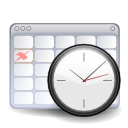
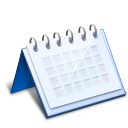
Date img added

diff --git a/_sass/_layout.scss b/_sass/_layout.scss
@@ -17,7 +17,7 @@ R: 149  G: 255  B: 206
     }
 
 .site-title {
-    font-family: "ironstrikeregular";
+    font-family:$font-stack;
     float: left;
 }
 
@@ -32,7 +32,7 @@ R: 149  G: 255  B: 206
 .site-nav {
     float: right;
     display: inline;
-
+    z-index: 999;
     .menu-icon {
         display: none;
     }
@@ -55,6 +55,7 @@ R: 149  G: 255  B: 206
         border: 1px solid $grey-color-light;
         border-radius: 5px;
         text-align: right;
+        z-index: 999;
 
         .menu-icon {
             display: block;
@@ -172,7 +173,7 @@ R: 149  G: 255  B: 206
 .page-content {
     //padding: $spacing-unit 0;
     padding: 0 10px 10px 10px;
-    font-family: "ironstrikeregular";
+    font-family: $font-stack;
 
 }
 .page-heading {
@@ -193,7 +194,7 @@ R: 149  G: 255  B: 206
 .post-meta {
     font-size: $small-font-size;
     color: $grey-color;
-    border-top: 1px dashed #000;
+
 }
 
 .post-link {
@@ -201,7 +202,10 @@ R: 149  G: 255  B: 206
     font-size: 24px;
 }
 
-
+.date-image {
+    width: 25px;
+    padding-right: 3px;
+}
 
 /**
  * Posts
@@ -216,7 +220,7 @@ R: 149  G: 255  B: 206
     letter-spacing: 1.2px;
     line-height: 1.4;
     font-weight: 700;
-    font-family: "ironstrikeregular";
+    font-family: $font-stack;
     -webkit-transition: all .5s ease-in;
     -moz-transition: all .5s ease-in;
     -ms-transition: all .5s ease-in;

diff --git a/_includes/head.html b/_includes/head.html
@@ -9,7 +9,10 @@
     <link rel="stylesheet" href="{{ "/css/main.css" | prepend: site.baseurl }}">
     <link rel="canonical" href="{{ page.url | replace:'index.html','' | prepend: site.baseurl | prepend: site.url }}">
     <link href='https://fonts.googleapis.com/css?family=Open+Sans+Condensed:300,300italic,700' rel='stylesheet' type='text/css'>
-    <meta property="og:title" content="Robert Höögs uni website" />
-    <meta property="og:type" content="text, exams, reports, results" />
-    <meta property="og:url" content="http://github.roberthoog.io/" />
+    <meta property="og:title" content="Linn'e Uni website of Robert Höög" />
+    <meta property="og:type" content="anout, exams, reports," />
+    <meta property="og:url" content="https://roberthoog.github.io/" />
+    <meta property="og:image" content="https://goo.gl/7UWkP8" />
+
     </head>
+

diff --git a/index.html b/index.html
@@ -10,7 +10,7 @@ layout: default
 <ul class="post-list">
   {% for post in site.posts %}
   <li>
-    <span class="post-meta">{{ post.date | date: "%b %-d, %Y" }}</span>
+    <img src="/img/date.png" class="date-image" alt="date"/> <span class="post-meta">{{ post.date | date: "%b %-d, %Y" }}</span>
 
     <h2>
       <a class="post-link" href="{{ post.url | prepend: site.baseurl }}">{{ post.title }}</a>
@@ -19,7 +19,6 @@ layout: default
   {% endfor %}
 </ul>
 
-<p class="rss-subscribe">subscribe <a href="{{ "/feed.xml" | prepend: site.baseurl }}">via RSS</a></p>
 
   <nav class="site-nav">
     <a href="#" class="menu-icon">

diff --git a/_layouts/post.html b/_layouts/post.html
@@ -7,7 +7,7 @@ layout: default
     <h1 class="post-title">{{ page.title }}</h1>
     <!--<img src="/img/date.png">-->
     <p class="post-meta">
-      {{ page.date | date:"%b %-d, %Y"}}
+      <img src="/img/date.png" class="date-image" alt="date"/>{{ page.date | date:"%b %-d, %Y"}}
       {% if page.author %}
       {{ page.author }}
       {% endif %}

diff --git a/_sass/_base.scss b/_sass/_base.scss
@@ -59,7 +59,7 @@ img {
 }
 
 h1 {
-    font-family: Ironstrike-Regular;
+    font-family: $font-stack;
 }
 
 /**
@@ -170,11 +170,11 @@ form {
     border-width: 2px;
     color: #222222;
     font-size: 14px;
-    margin: 0px;
+    margin: 0;
     padding: 20px;
 }
 .content{
-    margin: 0px;
+    margin: 0;
 }
 .form label{
     color: #222222;

diff --git a/css/main.scss b/css/main.scss
@@ -19,7 +19,7 @@ $site-title:       #b195ff;
 $grey-color:       #828282;
 $grey-color-light: lighten($grey-color, 40%);
 $grey-color-dark:  darken($grey-color, 25%);
-
+$font-stack:       "ironstrikeregular", sans-serif;
 $on-palm:          600px;
 $on-laptop:        800px;
 
